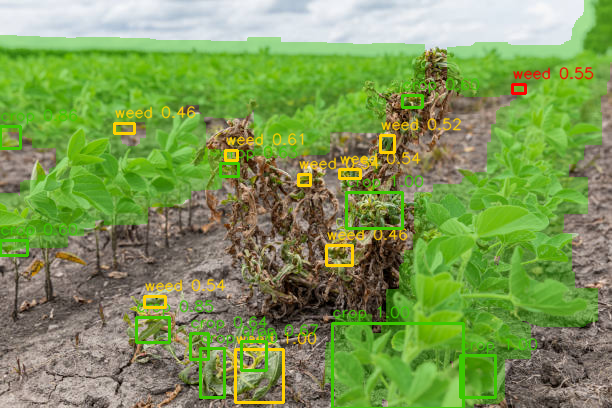
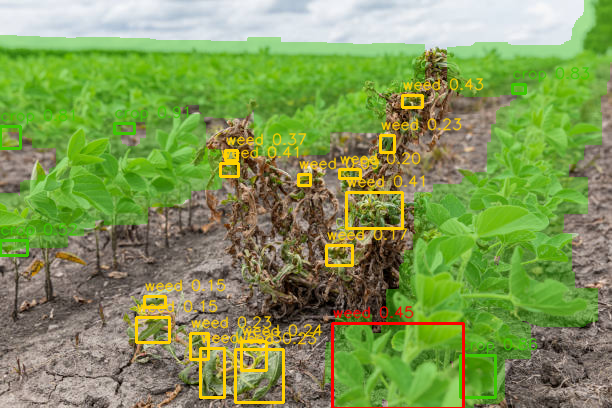
Switch crop/weed classification to local vegetation density heuristic

diff --git a/crop_weed_check/pipeline/detection.py b/crop_weed_check/pipeline/detection.py
@@ -46,14 +46,20 @@ def detect_plants_yolo(bgr_image, conf_threshold=0.3):
     return plants
 
 
+DENSITY_THRESHOLD = 0.30  # 이 이상이면 "빽빽하게 심긴 줄 안"으로 보고 crop 판정
+
+
 def detect_plants_rule_based(bgr_image):
     """
     MVP 규칙 기반 개별 식물체 탐지 + crop/weed 분류 (학습 데이터 불필요).
 
     1) ExG로 식생 픽셀을 찾고, 연결 성분마다 하나의 "개체"로 취급.
-    2) 화면 전체 식생 덩어리들의 중앙값 면적을 기준으로,
-       면적이 크고 둥글게 뭉친(볼록도가 높은) 개체는 보통 관리된 작물,
-       작고 삐죽삐죽한(볼록도가 낮은) 개체는 잡초로 보는 휴리스틱을 적용.
+    2) crop/weed 판정은 "주변 밀도"로 한다 — 실제로 심어진 작물은 촘촘하게 줄지어
+       자라서 주변에도 식생 픽셀이 빽빽하고(캐노피가 이어짐), 잡초는 이랑 사이
+       빈 흙에 듬성듬성 홀로 자라서 주변이 휑하다는 관찰에 기반한다.
+       (처음엔 "면적·볼록도"로 판정했는데, 실제 사진에서는 작물 잎 하나하나의
+        모양이 제각각이라 그 기준만으로는 오판이 너무 많았다 — 아래
+        "겪었던 문제" README 참고)
        (실제 서비스에서는 이 부분을 YOLOv8 crop/weed 분류 모델로 교체 — YOLO_WEIGHTS_PATH 참고)
     """
     img = bgr_image.astype(np.float32)
@@ -76,25 +82,27 @@ def detect_plants_rule_based(bgr_image):
             # 캐노피가 겹쳐서 여러 포기가 뭉친 덩어리 — 개별 개체로 볼 수 없으므로 제외.
             # (이걸 포함하면 화면 절반을 덮는 박스가 잡초 하나로 오판되는 문제가 생긴다.)
             continue
-        hull = cv2.convexHull(c)
-        hull_area = max(cv2.contourArea(hull), 1e-6)
-        solidity = area / hull_area
         x, y, w, h = cv2.boundingRect(c)
-        candidates.append({"box": [x, y, x + w, y + h], "area": area, "solidity": solidity})
+        candidates.append({"box": [x, y, x + w, y + h], "area": area})
 
     if not candidates:
         return []
 
-    areas = np.array([c["area"] for c in candidates])
-    median_area = float(np.median(areas))
-
     plants = []
     for c in candidates:
-        is_crop_like = (c["area"] >= median_area * 0.8) and (c["solidity"] >= 0.55)
+        x1, y1, x2, y2 = c["box"]
+        bw, bh = x2 - x1, y2 - y1
+        # 개체 크기의 1.5배만큼 여유를 두고 주변 영역을 잘라 식생 밀도를 잰다.
+        pad_x, pad_y = int(bw * 1.5) + 10, int(bh * 1.5) + 10
+        wx1, wy1 = max(0, x1 - pad_x), max(0, y1 - pad_y)
+        wx2, wy2 = min(img_w, x2 + pad_x), min(img_h, y2 + pad_y)
+        window = veg_mask[wy1:wy2, wx1:wx2]
+        density = float(np.count_nonzero(window)) / window.size if window.size else 0.0
+
+        is_crop_like = density >= DENSITY_THRESHOLD
         label = "crop" if is_crop_like else "weed"
-        # 규칙 기반 점수(확신도 아님) — 면적비와 볼록도를 0~1로 합성
-        score = min(1.0, 0.5 * (c["area"] / (median_area * 2 + 1e-6)) + 0.5 * c["solidity"])
-        plants.append({"label": label, "confidence": round(float(score), 3), "box": c["box"]})
+        score = min(1.0, density / (DENSITY_THRESHOLD * 2))
+        plants.append({"label": label, "confidence": round(score, 3), "box": c["box"]})
     return plants
 
 

diff --git a/crop_weed_check/README.md b/crop_weed_check/README.md
@@ -23,7 +23,7 @@
       ▼
 [2단계] 개별 식물체 탐지 + crop/weed 분류
       │   - models/yolov8_crop_weed.pt 가 있으면 YOLOv8 사용
-      │   - 없으면 면적·볼록도 기반 규칙으로 자동 대체 (MVP 기본값)
+      │   - 없으면 "주변 식생 밀도" 기반 규칙으로 자동 대체 (MVP 기본값)
       ▼
 [3단계] 판단 로직 — 고랑 마스크 ∩ weed 박스 → 방제 대상
       ▼
@@ -54,6 +54,14 @@
 
 이 두 문제를 겪으며 배운 점: 세그멘테이션·탐지 규칙을 합성 이미지로만 검증하면 안 되고, 실제 사진(캐노피가 겹치고 조명이 고르지 않은)으로 반드시 확인해야 이런 식의 "크기·형태 극단값"에서 나오는 오판을 잡아낼 수 있습니다.
 
+## 겪었던 문제: crop/weed 분류가 "면적·볼록도" 기준이라 너무 못 맞춤 (수정함)
+
+위 수정들을 거친 뒤에도 실제 사진으로 반복 테스트해보니, 건강하게 잘 자란 작물 잎인데도 "weed"로 잘못 표시되는 경우가 계속 많이 나왔습니다. 원인은 **crop/weed 판정 기준 자체가 개별 잎 하나의 모양(면적·볼록도)만 보고 있었기 때문**입니다. 실제 작물 잎은 갈라지거나 겹친 모양이 제각각이라, 잎 하나하나의 형태만으로는 "이게 관리된 작물인지 들풀인지" 구분할 신호가 거의 없었습니다.
+
+**수정**: 판정 기준을 개별 개체의 모양에서 **"주변 식생 밀도"**로 완전히 바꿨습니다. 실제로 심어진 작물은 촘촘한 줄을 이뤄 자라서 주변에도 식생 픽셀이 빽빽하고(캐노피가 사실상 이어져 있음), 잡초는 이랑 사이 빈 흙에 듬성듬성 혼자 자라서 주변이 휑하다는 관찰에 기반합니다. 후보 개체 하나마다 주변 영역(개체 크기의 1.5배 여유)의 식생 픽셀 비율(밀도)을 계산해서, 밀도가 30% 이상이면 crop, 아니면 weed로 판정하도록 `detection.py`를 다시 짰습니다. 실제 사진으로 재테스트하니 작물 줄은 초록(crop), 고립된 잡초 덩어리는 노랑(weed)으로 훨씬 정확하게 구분됐습니다(위 스크린샷은 이 수정을 반영한 최종 결과).
+
+이 문제를 겪으며 배운 점: 규칙 기반 분류를 설계할 때 "개체 하나의 특징"만 보지 말고, **그 개체가 놓인 맥락(주변 상황)**까지 특징으로 써야 실제 사진에서 통하는 규칙이 나온다는 걸 확인했습니다.
+
 ## 알려진 한계: 카메라 각도가 낮으면 고랑 자체가 안 보임
 
 지면 눈높이(ground-level)에서 낮은 각도로 찍은 사진으로 테스트해보니, 고랑(재배 줄) 구조 자체가 화면에 뚜렷하게 보이지 않아 판정이 불안정해지는 걸 확인했습니다. 흙덩이 사이사이에 풀이 화면 전체에 고르게 흩어져 있고 원근 때문에 가까운 풀은 크게, 먼 풀은 작게 보이는 사진에서는 ExG 분할이 "고랑"으로 삼을 만한 뚜렷한 줄을 찾지 못해 판정이 사실상 무작위에 가까워집니다.
@@ -62,7 +70,7 @@
 
 ## 현재 상태: MVP (규칙 기반)
 
-아직 crop/weed 라벨링 데이터로 YOLOv8을 학습시키지 않은 상태라, 2단계 분류는 **면적·볼록도 휴리스틱**으로 동작합니다 (`pipeline/detection.py`의 `detect_plants_rule_based`). 화면에도 현재 어떤 방식으로 탐지했는지(`규칙 기반` vs `YOLOv8`) 표시됩니다. 실제 정확도를 올리려면 CropAndWeed/WeedMap 같은 공개 데이터셋이나 자체 라벨링 데이터로 `models/yolov8_crop_weed.pt`를 학습시켜 넣으면 자동으로 그쪽을 사용합니다.
+아직 crop/weed 라벨링 데이터로 YOLOv8을 학습시키지 않은 상태라, 2단계 분류는 **주변 식생 밀도 휴리스틱**으로 동작합니다 (`pipeline/detection.py`의 `detect_plants_rule_based`). 화면에도 현재 어떤 방식으로 탐지했는지(`규칙 기반` vs `YOLOv8`) 표시됩니다. 실제 정확도를 올리려면 CropAndWeed/WeedMap 같은 공개 데이터셋이나 자체 라벨링 데이터로 `models/yolov8_crop_weed.pt`를 학습시켜 넣으면 자동으로 그쪽을 사용합니다.
 
 ## 알려진 한계: 개별 포기가 아니라 뭉친 덩어리로 잡힐 수 있음
 
